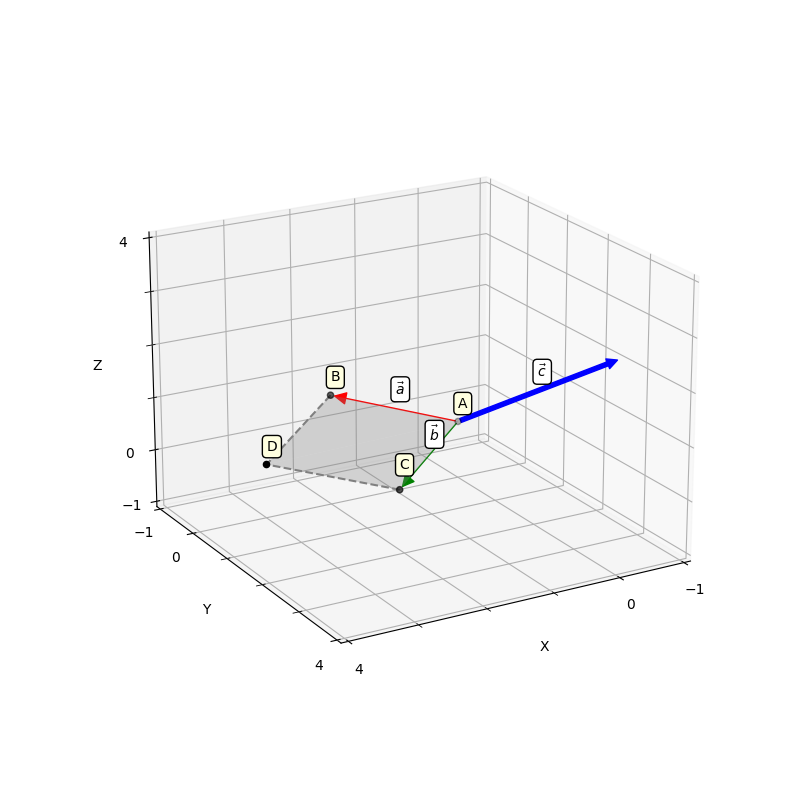
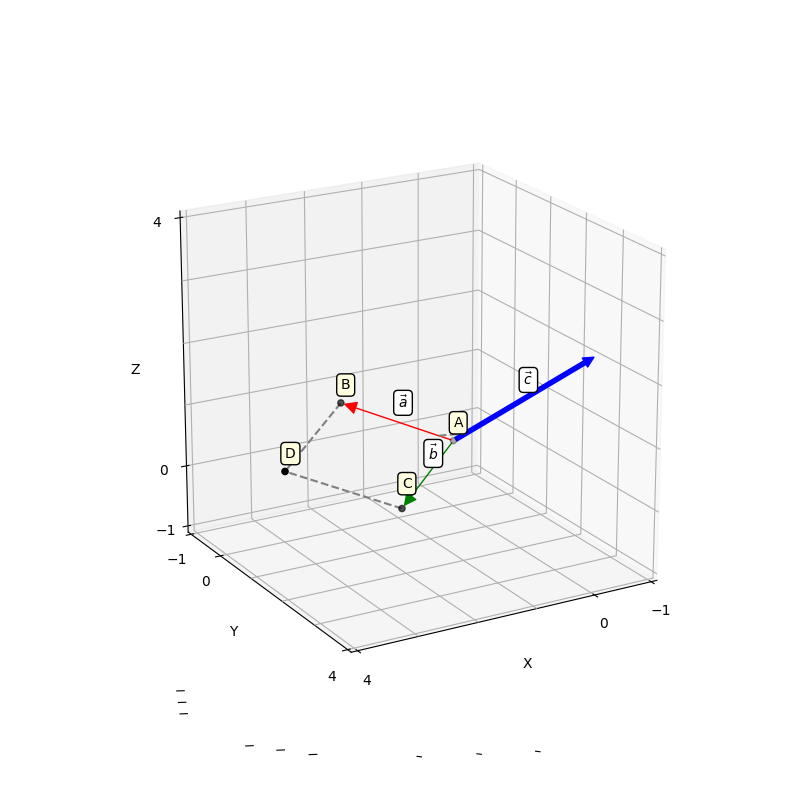
wip

diff --git a/articles/article1/figures.py b/articles/article1/figures.py
@@ -52,10 +52,17 @@ cube_edges = [[0, 1], [1, 2], [2, 3], [3, 0],
               [0, 4], [1, 5], [2, 6], [3, 7]]
 
 
+def dotProduct(a, b):
+    return sum(x * y for x, y in zip(a, b))
+
 def crossProduct(a, b):
     return [(a[1] * b[2]) - (a[2] * b[1]),
             (a[2] * b[0]) - (a[0] * b[2]),
             (a[0] * b[1]) - (a[1] * b[0])]
+
+def normalized(v):
+    l = math.sqrt(dotProduct(v, v))
+    return [x / l for x in v]
 
 
 def draw_star(ax, M: np.ndarray, alpha: float = 1):
@@ -181,19 +188,19 @@ def picture2():
     ax.scatter([v_d[0], ], [v_d[1], ], 20, color='gray')
 
     ax.scatter([0.0, ], [0.0, ], 20, color='gray')
-    ax.annotate(r'$A$', xy=(0, 0),
+    ax.annotate(r'$O$', xy=(0, 0),
                 xycoords='data', xytext=(0.0, 10.0), textcoords='offset points', fontsize=24)
 
     ax.scatter([v_a[0], ], [v_a[1], ], 20, color='gray')
-    ax.annotate(r'$B$', xy=v_a,
+    ax.annotate(r'$A$', xy=v_a,
                 xycoords='data', xytext=(0.0, 10.0), textcoords='offset points', fontsize=24)
 
     ax.scatter([v_b[0], ], [v_b[1], ], 20, color='gray')
-    ax.annotate(r'$C$', xy=v_b,
+    ax.annotate(r'$B$', xy=v_b,
                 xycoords='data', xytext=(0.0, 10.0), textcoords='offset points', fontsize=24)
 
     ax.scatter([v_d[0], ], [v_d[1], ], 20, color='gray')
-    ax.annotate(r'$D$', xy=v_d,
+    ax.annotate(r'$C$', xy=v_d,
                 xycoords='data', xytext=(0.0, 10.0), textcoords='offset points', fontsize=24)
 
     angle_dir = ((nv_a[0] + nv_b[0]) * 0.5, (nv_a[1] + nv_b[1]) * 0.5)
@@ -214,32 +221,31 @@ def picture3():
     ax.figure.savefig('./assets/Figure_3.png')
 
 def picture4():
-    fig, ax = create_plot_with_grid()
     alpha = 20 * math.pi / 180
-    draw_star(ax, np.identity(3), 0.2)
     M = [[math.cos(alpha), - math.sin(alpha), 0],
          [math.sin(alpha), math.cos(alpha), 0],
          [0, 0, 1]]
+    fig, ax = create_plot_with_grid()
+    draw_star(ax, np.identity(3), 0.2)
     draw_star(ax, M, 1)
     ax.figure.savefig('./assets/Figure_4.png')
 
 def picture5():
-    fig, ax = create_plot_with_grid()
     alpha = 20 * math.pi / 180
-    draw_star(ax, np.identity(3), 0.15)
     M1 = [[math.cos(alpha), - math.sin(alpha), 0],
           [math.sin(alpha), math.cos(alpha), 0],
           [0, 0, 1]]
     beta = 10 * math.pi / 180
-    draw_star(ax, M1, 0.3)
     M2 = [[math.cos(beta), - math.sin(beta), 0],
           [math.sin(beta), math.cos(beta), 0],
           [0, 0, 1]]
+    fig, ax = create_plot_with_grid()
+    draw_star(ax, np.identity(3), 0.15)
+    draw_star(ax, M1, 0.3)
     draw_star(ax, np.dot(M2, M1), 1.0)
     ax.figure.savefig('./assets/Figure_5.png')
 
 def picture6():
-    fig, ax = create_plot_with_grid()
     alpha = 30 * math.pi / 180
     R = [[math.cos(alpha), - math.sin(alpha), 0],
          [math.sin(alpha), math.cos(alpha), 0],
@@ -247,12 +253,13 @@ def picture6():
     S = [[1.5, 0, 0], 
          [0, 0.5, 0],
          [0, 0, 1]]
+
+    fig, ax = create_plot_with_grid()
     draw_star(ax, R, 0.2)
     draw_star(ax, np.dot(S, R), 1.0)
     ax.figure.savefig('./assets/Figure_6.png')
 
 def picture7():
-    fig, ax = create_plot_with_grid()
     alpha = 30 * math.pi / 180
     R = [[math.cos(alpha), - math.sin(alpha), 0],
          [math.sin(alpha), math.cos(alpha), 0],
@@ -260,18 +267,24 @@ def picture7():
     S = [[1.5, 0, 0], 
          [0, 0.5, 0],
          [0, 0, 1]]
+
+    fig, ax = create_plot_with_grid()
     draw_star(ax, S, 0.2)
     draw_star(ax, np.dot(R, S), 1.0)
     ax.figure.savefig('./assets/Figure_7.png')
 
 def picture8():
-    fig, ax = create_plot_with_grid_3d()
-
     o = [0, 0, 0]
     v_a = [2, 0, 1]
     v_b = [1.5, 1, -0.5]
     v_c = crossProduct(v_a, v_b)
     v_d = [a + b for a, b in zip(v_a, v_b)]
+
+    nv_a = normalized(v_a)
+    nv_b = normalized(v_b)
+    nv_c = normalized(v_c)
+
+    fig, ax = create_plot_with_grid_3d()
     ax.add_artist(Arrow3D(0, 0, 0, *v_a, mutation_scale=20,
                   arrowstyle="-|>", fc='r', ec='r'))
     ax.add_artist(Arrow3D(0, 0, 0, *v_b, mutation_scale=20,
@@ -280,8 +293,10 @@ def picture8():
                   fc='b', ec='b'))
     ax.plot(*[[a, b] for a, b in zip(v_a, v_d)], linestyle='--', c="gray")
     ax.plot(*[[a, b] for a, b in zip(v_b, v_d)], linestyle='--', c="gray")
+    ax.plot(*[[a, b] for a, b in zip(np.multiply(nv_a, 0.3), np.multiply(nv_c, 0.3))], linestyle='--', c="gray")
 
-    tri = Poly3DCollection([o, v_a, v_d, o, v_d, v_b], color='gray', linewidths=0, alpha=0.3)
+    verts = [o, v_a, v_d]
+    tri = Poly3DCollection(verts, color='gray', linewidths=0, alpha=0.3)
     ax.add_collection3d(tri)
 
     ax.scatter(*list(zip(o, v_a, v_b, v_d)),
@@ -323,13 +338,44 @@ def picture8():
     ax.figure.savefig('./assets/Figure_8.png')
 
 
-picture1()
-picture2()
-picture3()
-picture4()
-picture5()
-picture6()
-picture7()
+def picture9():
+    v = np.array([-0.4, 0.2, 0.6])
+    n = np.array(normalized((1, 1, 3)))
+    angle = 130 * (math.pi / 180)
+
+    dz = np.array(n) * dotProduct(n, v)
+    dx = v - dz
+    dy = np.array(crossProduct(n, dx))
+    v_dx_dy = dx * math.cos(angle) + dy * math.sin(angle)
+    v_ = v_dx_dy + dz
+
+    fig, ax = create_plot_with_grid_3d()
+    ax.set_xlim(-1, 1)
+    ax.set_ylim(-1, 1)
+    ax.set_zlim(0, 1)
+    ax.add_artist(Arrow3D(0, 0, 0, *list(v), mutation_scale=15, fc='r', ec='r'))
+    ax.add_artist(Arrow3D(0, 0, 0, *list(n), mutation_scale=20, arrowstyle="-|>", fc='b', ec='b'))
+    ax.add_artist(Arrow3D(0, 0, 0, *list(v_), mutation_scale=15, fc='g', ec='g'))
+    ax.add_artist(Arrow3D(0, 0, 0, *list(dx), mutation_scale=20, arrowstyle="->", fc='r', ec='r'))
+    ax.add_artist(Arrow3D(0, 0, 0, *list(dy), mutation_scale=20, arrowstyle="->", fc='y', ec='y'))
+    ax.add_artist(Arrow3D(0, 0, 0, *list(dz), mutation_scale=20, arrowstyle="->", fc='r', ec='g'))
+    ax.add_artist(Arrow3D(0, 0, 0, *list(v_dx_dy), mutation_scale=20, arrowstyle="-|>", fc='g', ec='g'))
+
+
+
+
+
+
+
+
+#picture1()
+#picture2()
+#picture3()
+#picture4()
+#picture5()
+#picture6()
+#picture7()
 picture8()
-#plt.show()
+#picture9()
+plt.show()
 sys.exit()

diff --git a/articles/article1/ru.md b/articles/article1/ru.md
@@ -1,4 +1,4 @@
-# Свой AR. Основы
+# Свой AR. Основы векторной алгебры.
 
 В настоящий момент появилось достаточно большое количество библиотек дополненной реальности с богатым функционалом (ARCore, ARKit, Vuforia). Тем не менее я решил начать свой открытый проект, попутно описывая как это все работает изнутри. Если повезет, то позже получится добавить какой-то особый интересный функционал, которого нет в других библиотеках. В качестве целевых платформ пока возьмем Windows и Android. Библиотека пишется на C++, и сторонние библиотеки будут задействованы по минимуму, т.е. преимущественно не будет использовано ничего готового. Упор в статьях будет сделан на алгоритмы и математику, которые я постараюсь описать максимально доступно и подробно.
 
@@ -22,16 +22,15 @@ $\vec v = (x, y)^T$, где $x$ и $y$ - компоненты вектора, з
 Возьмем два вектора: $\vec a$ и $\vec b$. 
 Проекцию вектора на дргуой вектор можно рассматривать в двух смыслах: геометрическом и алгебраическом. В геометрическом смысле проекция вектора на ось - это вектор, а в алгебраическом – число. 
 
-![](./assets/Figure_2.png)
-Вектора - это направаления, поэтому их начало лежит в начасле кооржинат. Обозначим ключевые точки: $A$ - исходная точка, $B$ - конечная точка вектора $\vec a$, $C$ - конечная точка вектора $\vec b$. 
+![](./assets/Figure_2.png)  
+Вектора - это направаления, поэтому их начало лежит в начасле кооржинат. Обозначим ключевые точки: $O$ - исходная точка, $A$ - конечная точка вектора $\vec a$, $B$ - конечная точка вектора $\vec b$. 
 
-В геометрическом смысле мы ищем такой $\vec c$, чтобы конечная точка вектора (обозначим ее как - $D$) была ближайшей точкой к точке $C$, лежащей на прямой $AB$.
-В 
+В геометрическом смысле мы ищем такой $\vec c$, чтобы конечная точка вектора (обозначим ее как - $C$) была ближайшей точкой к точке $B$, лежащей на прямой $OA$.
 
-В алгебраическом смысле мы хотим найти состовляющую $\vec b$ в $\vec a$, т.е. такое значение $t$, чтобы $\vec c = \vec a \cdot t$ и $|\vec c - \vec b| \rightarrow min$
+Иначе говоря, мы хотим найти состовляющую $\vec b$ в $\vec a$, т.е. такое значение $t$, чтобы $\vec c = \vec a \cdot t$ и $|\vec c - \vec b| \rightarrow min$
 
-Расстояние между точками $D$ и $C$ будет минимальным, если $\angle ADC = 90^\circ$. Получаем прямоуголный треугольник - $ADC$. Обозначим $\alpha = \angle DAC$. Мы значем, что $\cos{\alpha} = \frac{|AD|}{|AC|}$ по определению косинуса через соотношение сторон прямоугольного треугольника ($AC$ - гипотенуза, $AD$ - прилежащий катет).
-Также возьмем скалярное произведение $s = \vec a \cdot \vec b = |\vec a| \cdot |\vec b| \cdot \cos(\alpha)$. Отсюда следует, что $\cos(\alpha) = \frac {\vec a \cdot \vec b } {|\vec a| \cdot |\vec b|}$. А значит $\frac{|AD|}{|AC|} = \frac {\vec a \cdot \vec b } {|\vec a| \cdot |\vec b|}$. Тут вспоминаем, что $AD$ - это искомый вектор $\vec c$, а $AC$ - $\vec b$, и получаем $\frac{|\vec c|}{|\vec b|} = \frac {\vec a \cdot \vec b } {|\vec a| \cdot |\vec b|}$. Умножаем обе части на $|\vec b|$ и получаем - $|\vec c| = \frac {\vec a \cdot \vec b } {|\vec a|}$. Теперь мы знаем длину $\vec c$. Вектор $\vec c$ отличается от вектора $\vec a$ длинной, а значит через соотношение длин можно получить: $\vec c = \vec a \cdot \frac{|\vec c|}{|\vec a|^2}$. И мы можем вывести финальные формулы:  
+Расстояние между точками $B$ и $C$ будет минимальным, если $\angle OCB = 90^\circ$. Получаем прямоуголный треугольник - $OCB$. Обозначим $\alpha = \angle COB$. Мы значем, что $\cos{\alpha} = \frac{|OC|}{|OB|}$ по определению косинуса через соотношение сторон прямоугольного треугольника ($OB$ - гипотенуза, $OC$ - прилежащий катет).
+Также возьмем скалярное произведение $s = \vec a \cdot \vec b = |\vec a| \cdot |\vec b| \cdot \cos(\alpha)$. Отсюда следует, что $\cos(\alpha) = \frac {\vec a \cdot \vec b } {|\vec a| \cdot |\vec b|}$. А значит $\frac{|OC|}{|OB|} = \frac {\vec a \cdot \vec b } {|\vec a| \cdot |\vec b|}$. Тут вспоминаем, что $OC$ - это искомый вектор $\vec c$, а $OB$ - $\vec b$, и получаем $\frac{|\vec c|}{|\vec b|} = \frac {\vec a \cdot \vec b } {|\vec a| \cdot |\vec b|}$. Умножаем обе части на $|\vec b|$ и получаем - $|\vec c| = \frac {\vec a \cdot \vec b } {|\vec a|}$. Теперь мы знаем длину $\vec c$. Вектор $\vec c$ отличается от вектора $\vec a$ длинной, а значит через соотношение длин можно получить: $\vec c = \vec a \cdot \frac{|\vec c|}{|\vec a|^2}$. И мы можем вывести финальные формулы:  
 $t = \frac {\vec a \cdot \vec b } {|\vec a|^2} = \frac {{\vec a}^T \vec b}{{\vec a}^T \vec a}$ и  
 $\vec c = \vec a \cdot \frac {{\vec a}^T \vec b}{{\vec a}^T \vec a}$
 
@@ -44,7 +43,7 @@ $\vec c = \vec a \cdot \frac {{\vec a}^T \vec b}{{\vec a}^T \vec a}$
 $t = \vec a \cdot \vec b = {\vec a}^T \vec b$  
 $\vec c = \vec a \cdot {(\vec a}^T \vec b)$
 
-### Двумерная матрица поворота
+### Матрица поворота двуменого пространства
 Предположим у нас есть некая фигура:
 
 ![](./assets/Figure_3.png)
@@ -121,6 +120,8 @@ $\vec c = \begin{pmatrix}a_y \cdot b_z - a_z \cdot b_y & a_z \cdot b_x - a_x \cd
 
 Есть еще одно удобное свойство данного произведения. Если два вектора ортогональны и нормализованы, то вектор также будет иметь единичную длину. Параллелограмм, который образуется двумя исходными векторами, станет квадратом с длинной сторон равной единице. Т.е. площадь равна единице, отсюда длина выходного вектора - единица.
 
+### Матрица поворота трехмерного пространства
+
 С тем, как формировать матрицу в двумерном пространстве мы разобрались. В трехмерном она формируется уже не двумя, а тремя ортогональными векторами -- $R = \begin{pmatrix} \vec{aX} & \vec{aY} & \vec{aZ} \end{pmatrix}$. По свойствам, описанным выше, можно вывести следующией отношения между этими векторам:  
 * $\vec{aZ} = \vec{aX} \times \vec{aY}$
 * $\vec{aX} = \vec{aY} \times \vec{aZ}$
@@ -131,4 +132,18 @@ $\vec c = \begin{pmatrix}a_y \cdot b_z - a_z \cdot b_y & a_z \cdot b_x - a_x \cd
 2. Получаем вектор оси $X$ -- $\vec{aX} = \frac{\vec{y} \times \vec{aZ}}{|\vec{y} \times \vec{aZ}|}$. В итоге у нас есть два нормализованных ортогональных вектора $\vec{aX}$ и $\vec{aZ}$, описывающих оси $X$ и $Z$, при этом ось $Z$ сонаправлена с входным вектором $\vec z$, а ось $X$ перпенидулярна к входному опорному вектору $\vec y$. 
 3. Получаем вектор оси $Y$ из полченных $\vec{aX}$ и $\vec{aZ}$ -- $\vec{aY} = \vec{aZ} \times \vec{aX}$.
 4. Получаем матрицу $R = \begin{pmatrix} \vec{aX} & \vec{aY} & \vec{aZ} \end{pmatrix}$
+
+В трехмерных редакторах и движках в интерфейсах часто используются углы Эйлера для задания поврота. Углы Эейлера более интуитивно понятны - это три числа, обозначающие три последовательных поворота вокруг трех основных осей $X, Y, Z$. Однако, работать с ними не очень то просто. Если попробовать выразить итоговый вектор напрямую через эти повороты, то получим довольно объемную формулы, состоящую из синусов и косинусов наших углов. Есть еще пара проблем с этими углами. Первая проблема - это то, что сами по себе углы не задают однозначного поворота, так как результат зависит от того, в какой последовательности происходили повороты - $X \rightarrow Y \rightarrow Z$ или $Z \rightarrow X \rightarrow Y$ или как-то еще. Углы Ейлера - это последовательность поворотов, а как мы помним, смена порядка трансформаций меняет итоговый результат. Вторая проблема - это [gimbal lock](https://habr.com/ru/post/183116/#:~:text=%D0%A3%D0%B3%D0%BB%D1%8B%20%D0%AD%D0%B9%D0%BB%D0%B5%D1%80%D0%B0%20%D0%B8%D0%BC%D0%B5%D1%8E%D1%82%20%D0%BD%D0%B5%D1%81%D0%BA%D0%BE%D0%BB%D1%8C%D0%BA%D0%BE%20%D0%BD%D0%B5%D0%B4%D0%BE%D1%81%D1%82%D0%B0%D1%82%D0%BA%D0%BE%D0%B2,%2C%20%D0%B1%D0%BB%D0%BE%D0%BA%D0%B8%D1%80%D0%BE%D0%B2%D0%BA%D0%B0%20%D0%BE%D1%81%D0%B5%D0%B9%2C%20%D1%81%D0%BA%D0%BB%D0%B0%D0%B4%D1%8B%D0%B2%D0%B0%D0%BD%D0%B8%D0%B5%20%D1%80%D0%B0%D0%BC%D0%BE%D0%BA).
+
+Внутри же трехмерные движки чаще всего используют кватернионы, которых мы касаться не будем.
+
+Существуют разные способы задания поврота в трехмерном пространстве, и каждый имеет свои плюсы и минусы:
+* Матрица поврота. С ней просто работать (т.к. это просто матрицы). Но есть логическая избыточность данных - все элементы матрицы связаны определенными условиями, так как количество элементов больше степеней свободы (12 елементов против трех степеней). Т.е. мы не можем взять матрицу и наполнить ее случайными числами, так при несоблюдении условий матрица просто не будет являться матрицей поворота.
+* Углы Эйлера. Они интуитивно понятны, но работать с ними сложно.
+* Вектор оси вращения и угол порота вокруг нее. Любой возможный поворот можно описать таким образом. Описание поворота вектора таким способои будет ниже.
+* Вектор поворота Родрига. Это трехмерный вектор, где нормализованный вектор представляет собой ось вращения, а длина вектора угол поворота. Этот способ задания поворота похож на предыдущий способ, но количество элементов здесь равно числу степеней свободы, и элементы не связаны между собой жесткими ограничениями. И мы можем взять трехмерный вектор с абсолютно случайными числами, и любой полученный вектор будет задавать какое-то возможное вращение.
+
+### Поворот вектора воруг заданной оси
+
+
 
